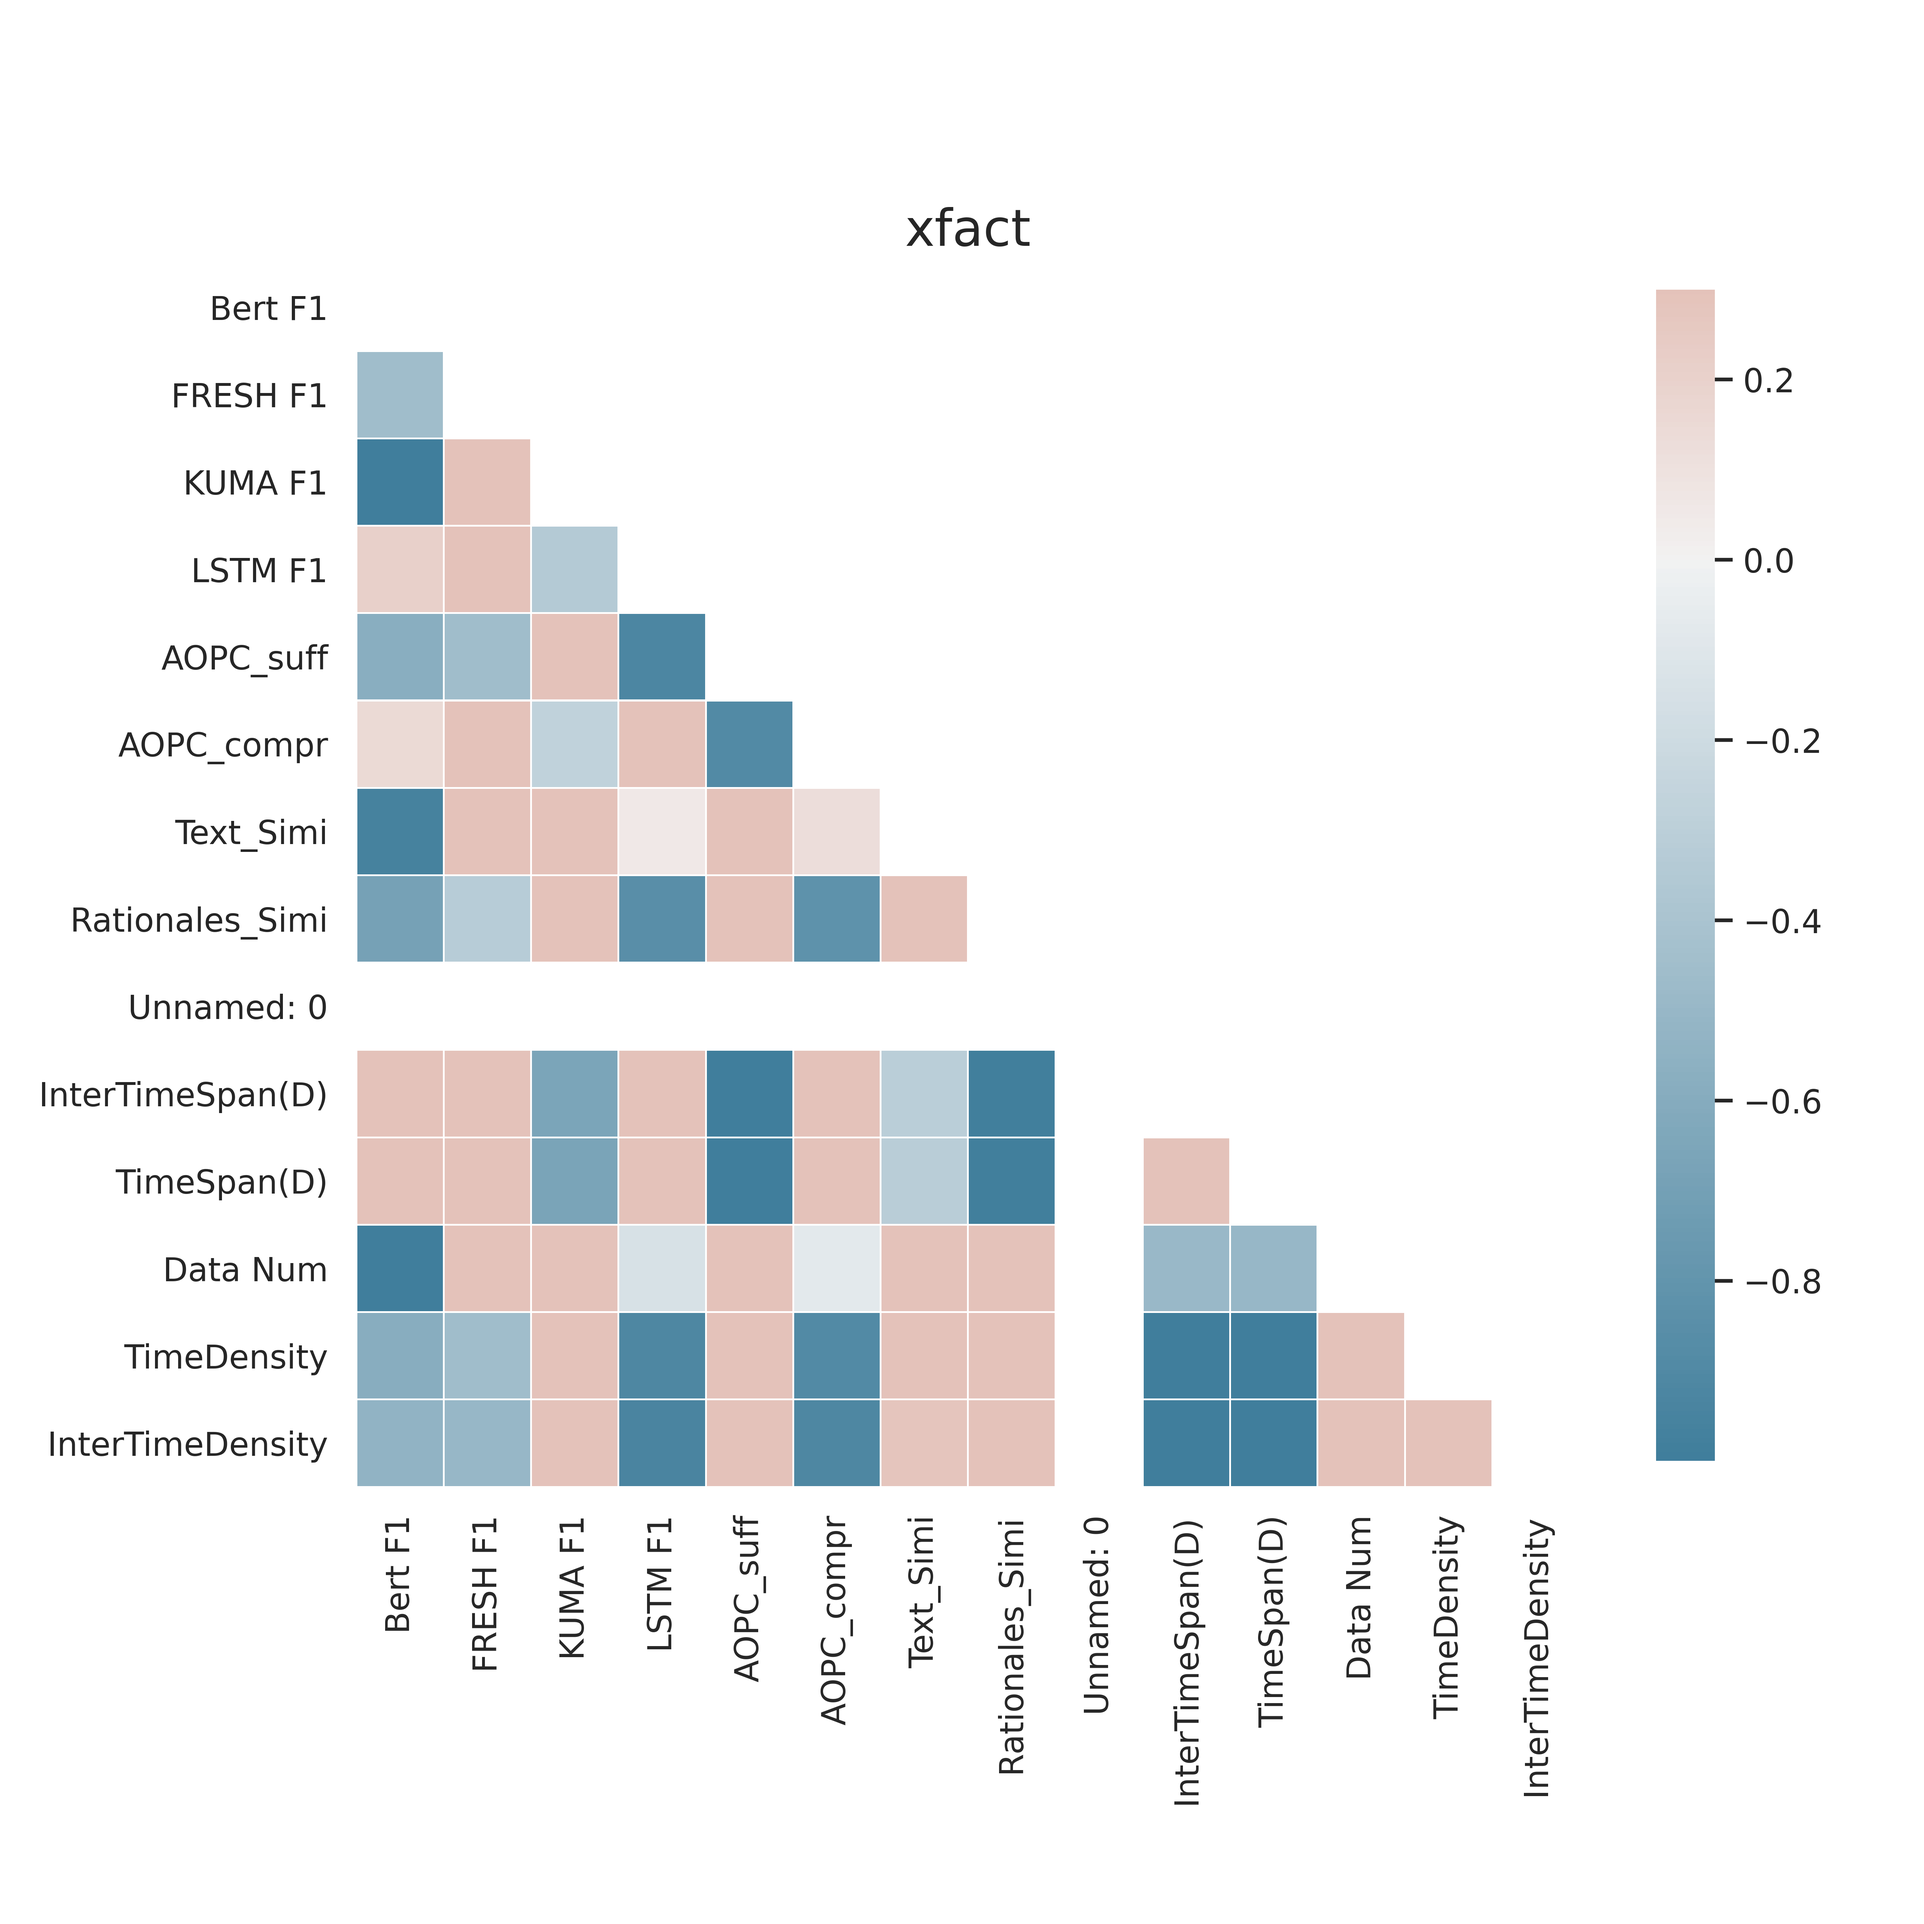
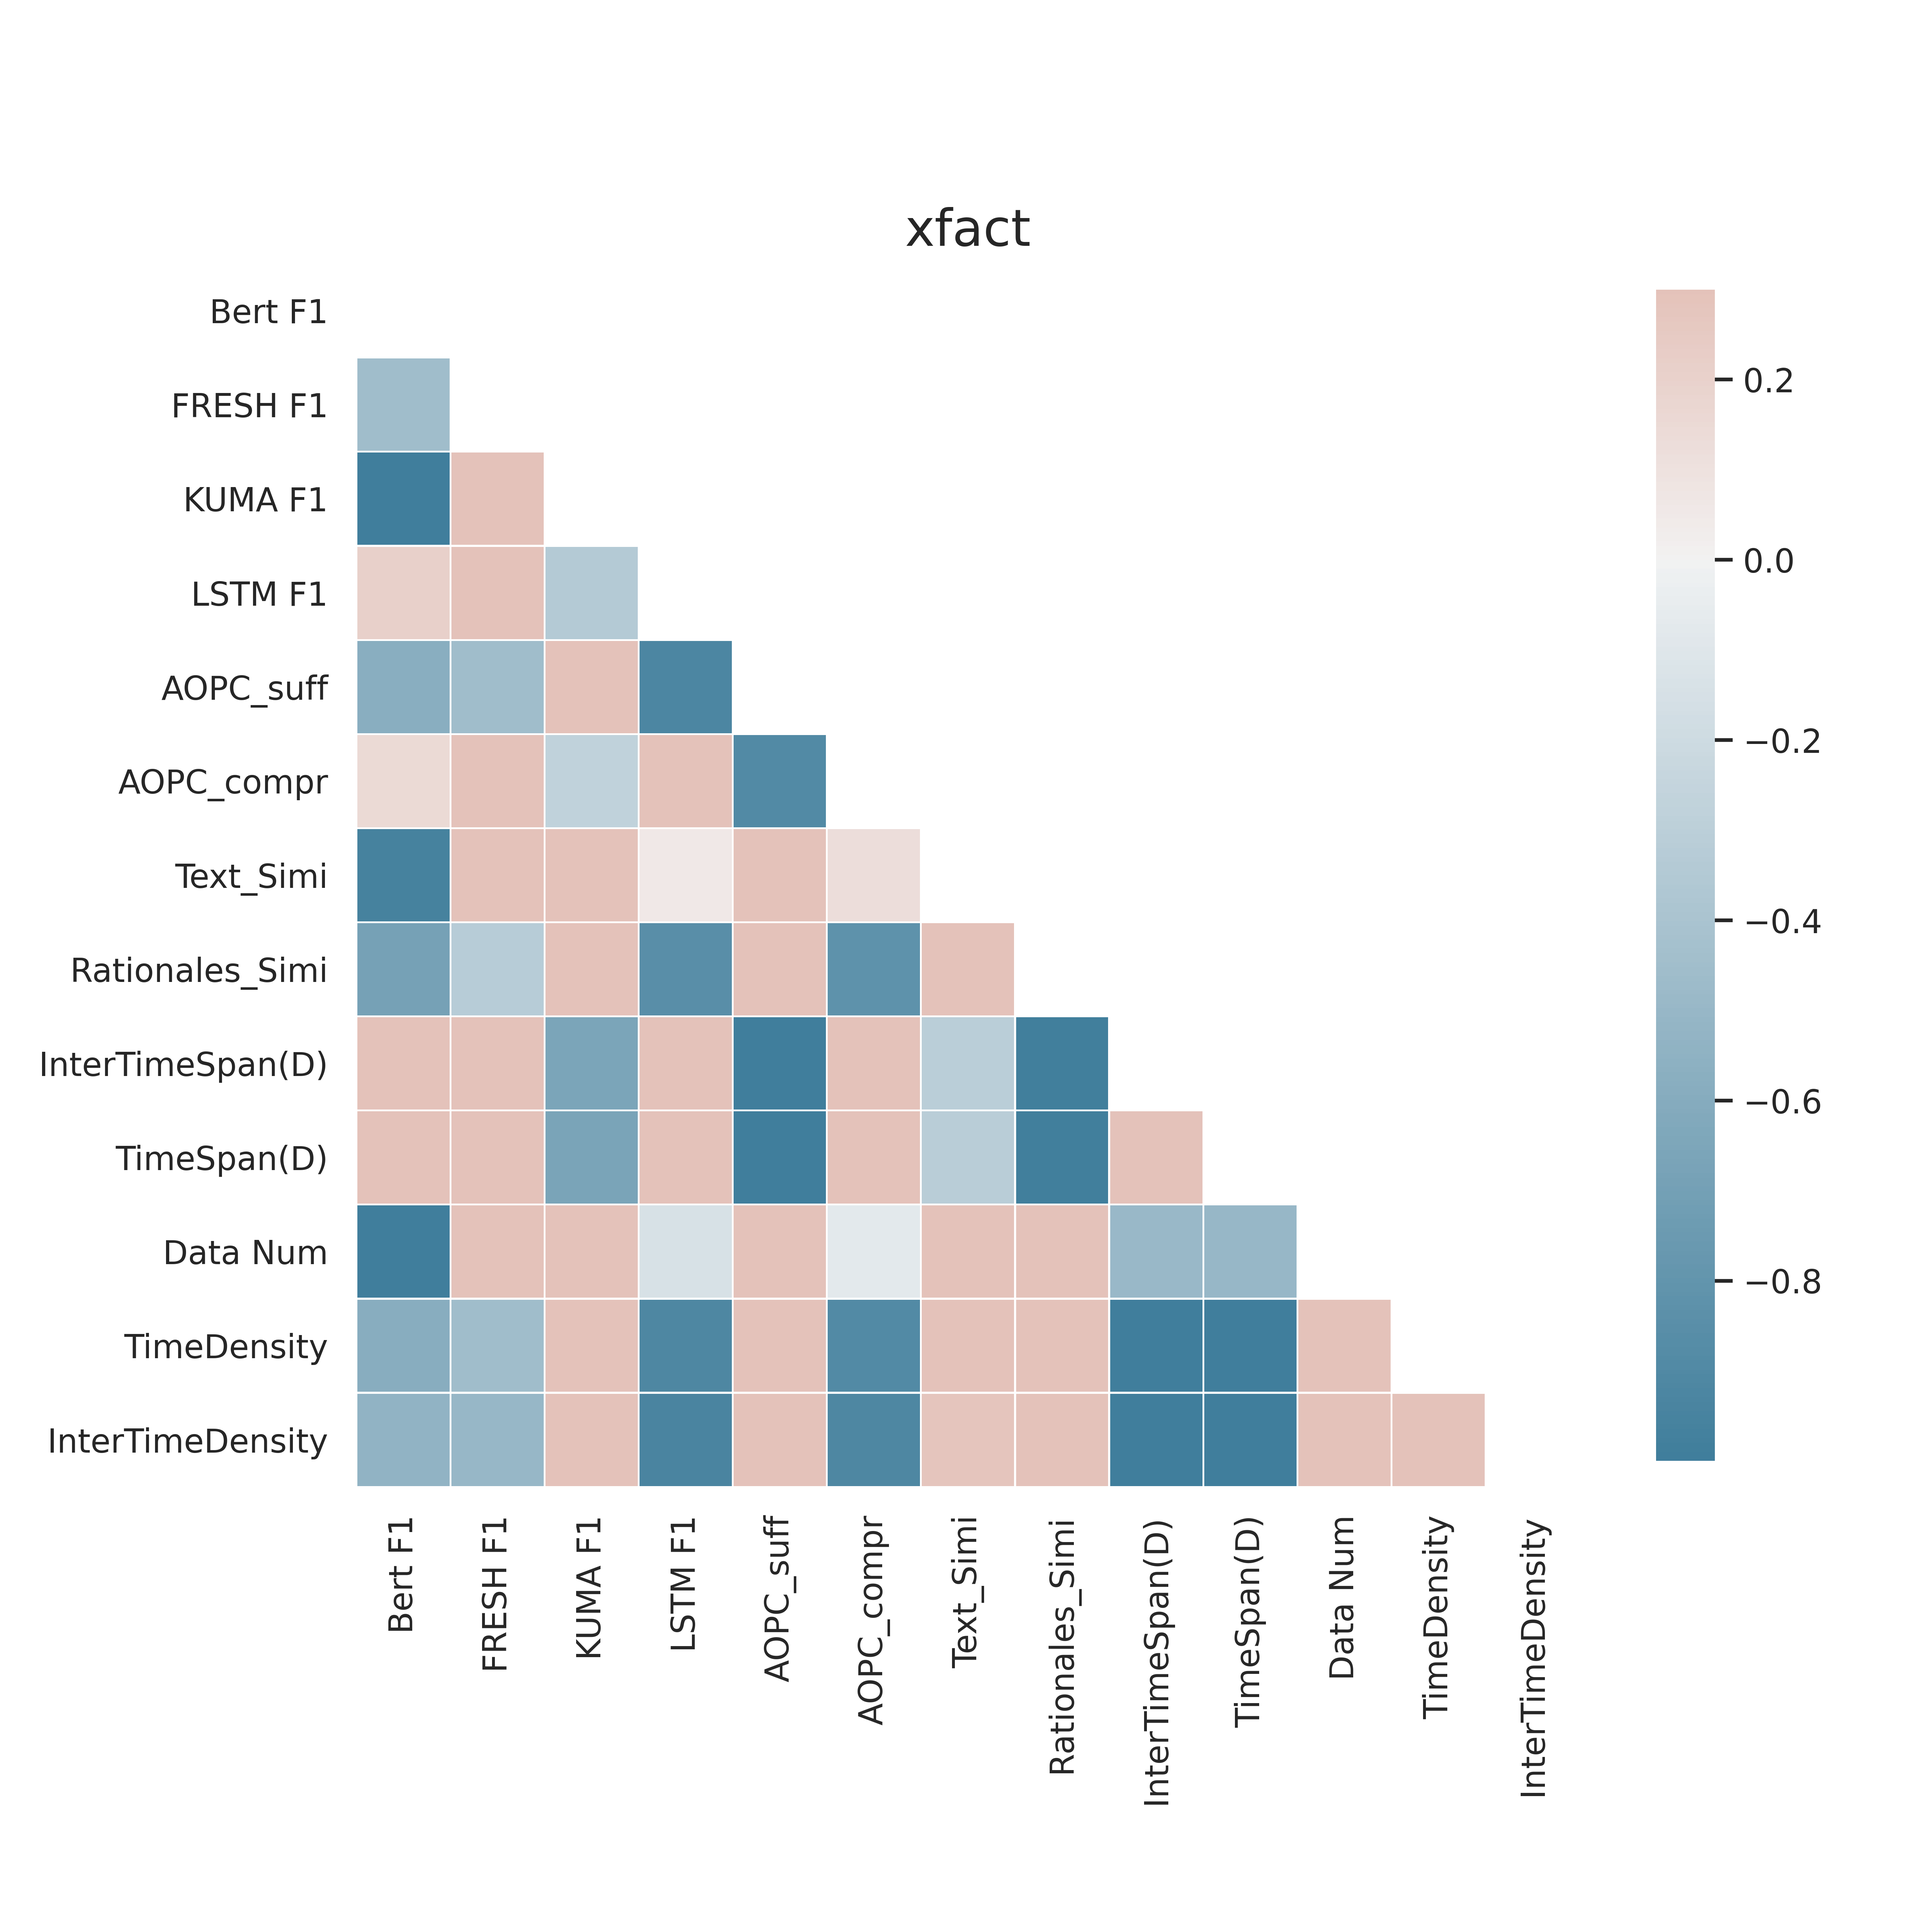
m

diff --git a/saved_everything/post_analysis.py b/saved_everything/post_analysis.py
@@ -41,6 +41,9 @@ for i, task in enumerate(task_list):
     data_stat['TimeDensity'] = data_stat['Data Num']/data_stat['TimeSpan(D)']
     data_stat['InterTimeDensity'] = data_stat['Data Num']*0.5/data_stat['InterTimeSpan(D)']
     data_stat['Data Num'] = pd.to_numeric(data_stat['Data Num'])
+    data_stat = data_stat[['Domain', 'Label distribution', 'Interquartile - Oldest',
+       'Median', 'Interquartile - Newest', 'InterTimeSpan(D)', 'Oldest Date',
+       'Newest Date', 'TimeSpan(D)', 'Data Num', 'TimeDensity','InterTimeDensity']]
 
     for file in os.listdir('./' + task_name + '/'):
         if fnmatch.fnmatch(file, '*fulltext_similarity*'):
@@ -123,7 +126,7 @@ for i, task in enumerate(task_list):
 
     bigtable = reduce(lambda left, right: pd.merge(left, right, on=['Domain'],
                                                    how='outer'), data_list)
-    bigtable.drop(bigtable.columns[0], axis=1)
+    
     print(bigtable)
     bigtable.to_csv(task_name + '/bigtable.csv')
     bigtable_list.append(bigtable)
